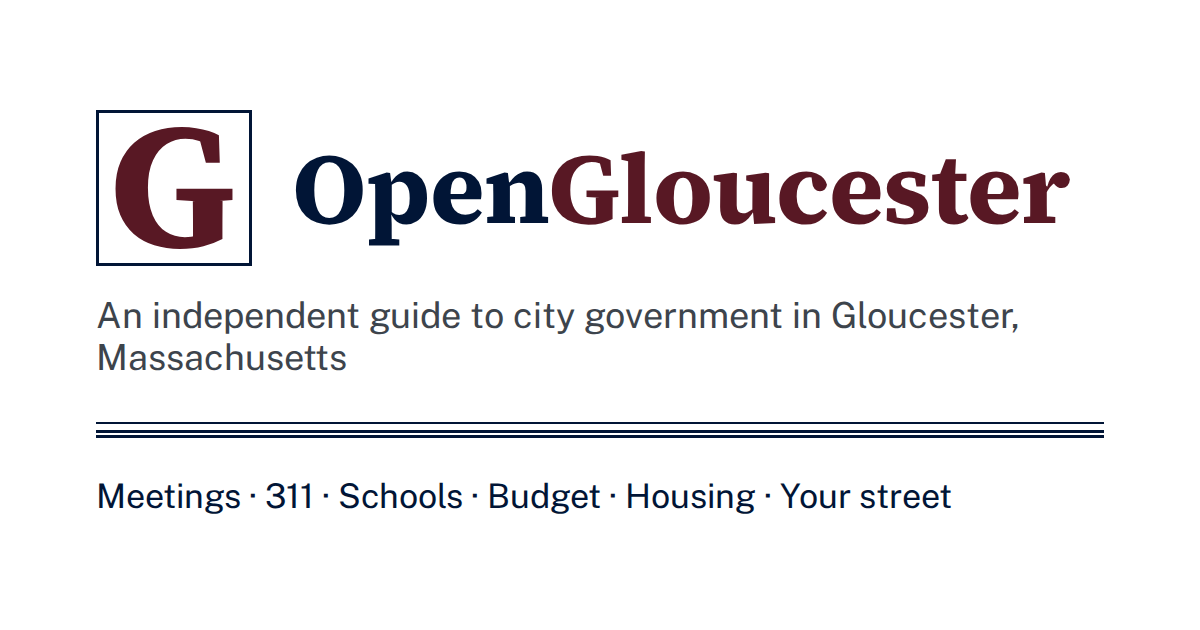
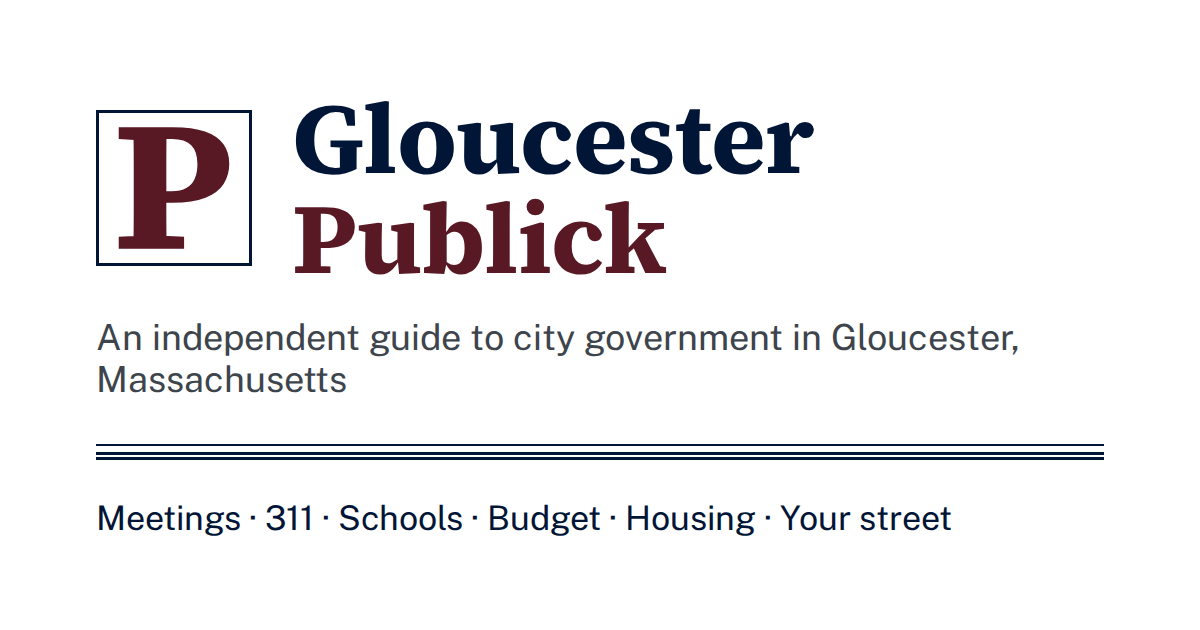
Rename the site Gloucester Publick; contact gloucester-ma@publick.org
The masthead reads Gloucester in dark ink and Publick in maroon: the town,
then the network. The About page says where the network's name comes from,
Publick Occurrences, Boston 1690. The share image and phone icons are
redrawn with the new name and the Publick P, and the contact address is the
town's own publick.org address, which forwards to the owner's inbox.

Claude-Session: https://claude.ai/code/session_01NruHAAMTbXddngLvRjWQcR

diff --git a/site/pages/about/index.html b/site/pages/about/index.html
@@ -5,6 +5,11 @@
 {% block content %}
 <h1>About</h1>
 <p class="lede">An independent site tracking public data about the City of {{ town.name }}. Not run by or affiliated with the city.</p>
+{% if site.get("network") %}
+
+<h2 id="network">Part of {{ site.network }}</h2>
+<p>{{ site.name }} is one of the {{ site.network }} sites, which publish the public record of towns and cities every day. The name comes from <cite>Publick Occurrences Both Forreign and Domestick</cite>, the first newspaper in the American colonies. It was printed in Boston in 1690 and shut down after one issue for printing without permission.</p>
+{% endif %}
 
 <h2 id="how">How it works</h2>
 <ul>

diff --git a/site/static/css/site.css b/site/static/css/site.css
@@ -1,4 +1,4 @@
-/* OpenGloucester styles.
+/* Publick town site styles.
    Mobile first. Colors come from the town's palette (config-independent names
    below); type is Public Sans, served from this site.
    Accessibility: sizes in rem so text scales; text and UI colors meet WCAG AA

diff --git a/pipeline/make_share_image.py b/pipeline/make_share_image.py
@@ -1,6 +1,6 @@
 """Draw the image shown when a page is shared on social media or in a message.
 
-A 1200 x 630 PNG of the site's masthead (its G, name, and tagline), in the
+A 1200 x 630 PNG of the site's masthead (its icon, name, and tagline), in the
 site's own fonts and colors. Also writes PNG copies of the favicon for phones. Run it once per town, or again after changing the name or
 tagline; the build links the image when site/static/share/<town>.png exists.
 Needs Playwright (requirements-dev.txt).
@@ -33,7 +33,7 @@ def svg_url(name: str) -> str:
 
 
 def share_html(site: dict, sections: list[dict]) -> str:
-    """The masthead as it appears at the top of every page, with the site's G."""
+    """The masthead as it appears at the top of every page, with the site's icon."""
     return f"""<!doctype html><html><head><meta charset="utf-8"><style>
 @font-face {{ font-family: "Public Sans"; font-weight: 400; src: url("{font_url("public-sans-400")}"); }}
 @font-face {{ font-family: "Source Serif 4"; font-weight: 700; src: url("{font_url("source-serif-4-700")}"); }}

diff --git a/tests/test_site.py b/tests/test_site.py
@@ -125,12 +125,12 @@ def test_internal_links_resolve(site_dir, page_files):
 def test_contact_route_present(site_dir, rel):
     html = (site_dir / rel).read_text()
     assert "/issues" in html
-    assert 'href="mailto:opengloucester@protonmail.com"' in html
+    assert 'href="mailto:gloucester-ma@publick.org"' in html
 
 
 def test_report_buttons_open_an_email(site_dir):
     page = (site_dir / "meetings" / "decisions" / "index.html").read_text()
-    assert 'class="report-link" href="mailto:opengloucester@protonmail.com?subject=Correction' in page
+    assert 'class="report-link" href="mailto:gloucester-ma@publick.org?subject=Correction' in page
 
 
 def test_meeting_pages(site_dir):

diff --git a/README.md b/README.md
@@ -1,6 +1,6 @@
-# OpenGloucester
+# Gloucester Publick
 
-Source for [OpenGloucester](https://gloucester-ma.publick.org), part of the Publick network of town sites: an independent, read-only site that publishes public data about Gloucester, Massachusetts: how the city responds to 311 requests, what is on upcoming meeting agendas, and more over time.
+Source for [Gloucester Publick](https://gloucester-ma.publick.org), part of the Publick network of town sites: an independent, read-only site that publishes public data about Gloucester, Massachusetts: how the city responds to 311 requests, what is on upcoming meeting agendas, and more over time.
 
 The site is static HTML built by a small Python script and deployed to GitHub Pages by GitHub Actions. There is no server and no database.
 
@@ -145,7 +145,7 @@ One-time setup. Each town's site is a subdomain of the network's domain, `<town>
 
 ### Moving a site to a new domain
 
-GitHub Pages serves one custom domain per repository, so a town's old domain is redirected at Cloudflare. For OpenGloucester's move from `opengloucester.org`:
+GitHub Pages serves one custom domain per repository, so a town's old domain is redirected at Cloudflare. For example, for a move from `opengloucester.org`:
 
 1. Create the new site's DNS record (step 3 above) and wait for it to resolve.
 2. Change `domain` in the town's config and merge; then set the same domain under **Repository settings → Pages → Custom domain** straight away. Until then, pages name the new address while being served from the old one.
